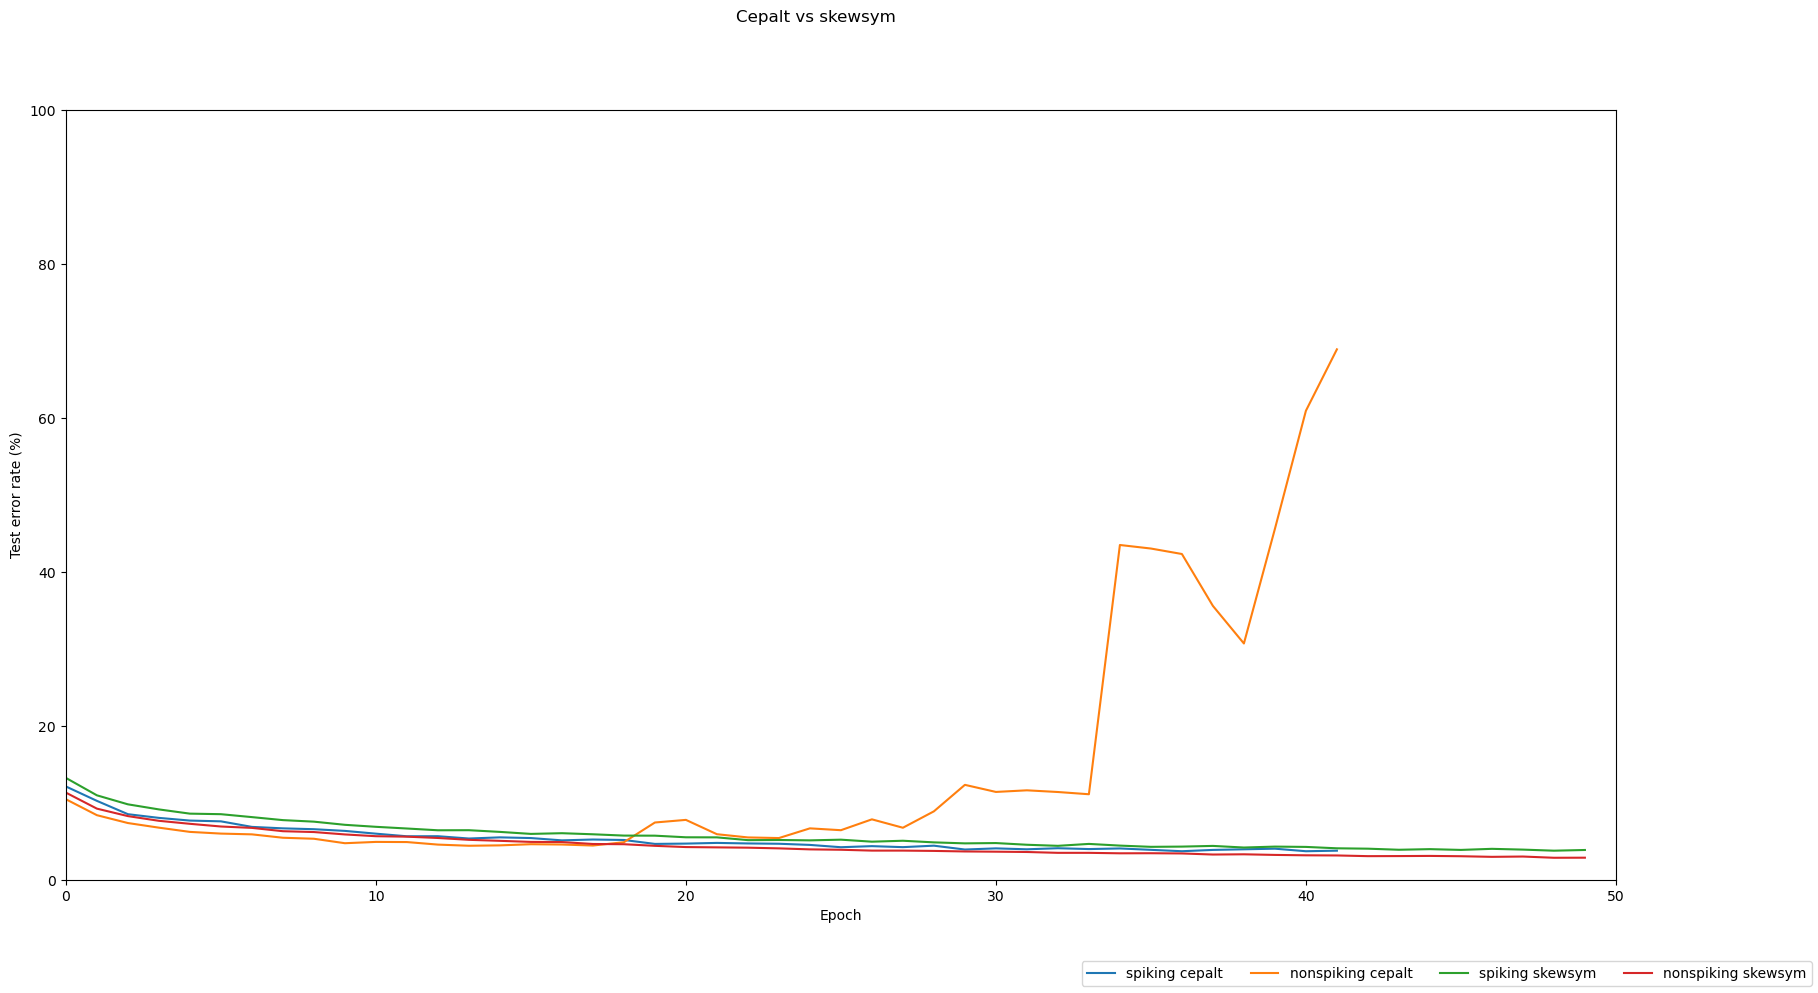
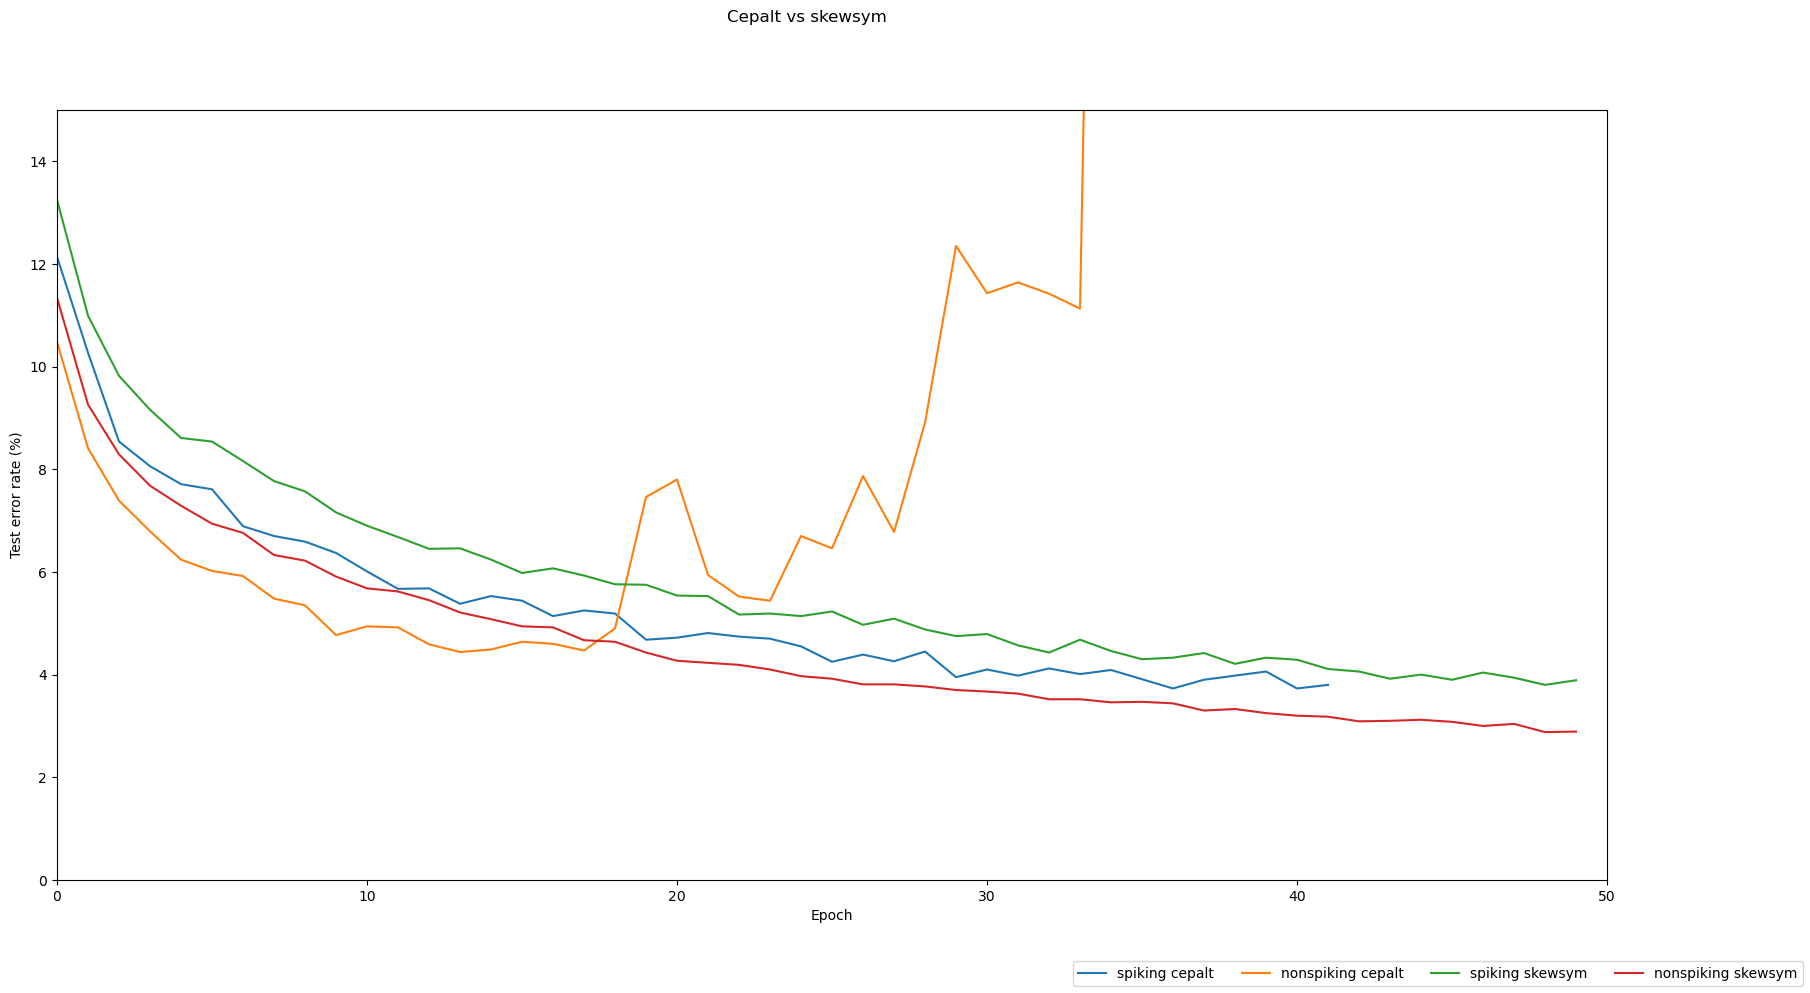
wip

diff --git a/graphUtil.py b/graphUtil.py
@@ -3,6 +3,17 @@ from matplotlib import pyplot as plt
 import csv
 import argparse
 
+"""
+'Solarize_Light2', '_classic_test_patch', '_mpl-gallery', '_mpl-gallery-nogrid',
+'bmh', 'classic', 'dark_background', 'fast', 'fivethirtyeight', 'ggplot', 'grayscale',
+'seaborn', 'seaborn-bright', 'seaborn-colorblind', 'seaborn-dark', 'seaborn-dark-palette',
+'seaborn-darkgrid', 'seaborn-deep', 'seaborn-muted', 'seaborn-notebook', 'seaborn-paper',
+'seaborn-pastel', 'seaborn-poster', 'seaborn-talk', 'seaborn-ticks', 'seaborn-white',
+'seaborn-whitegrid', 'tableau-colorblind10'
+"""
+
+# plt.style.use('ggplot')
+colormap = plt.cm.nipy_spectral
 parser = argparse.ArgumentParser(description='Graphing Utils')
 
 parser.add_argument(
@@ -34,14 +45,15 @@ def csv2array(directory,skiplines=0):
     return train_error, test_error
 
 # Plot various levels of discretization for nonspiking cepalt
-n_plots = 10
+n_plots = 12
 fig, ax = plt.subplots(figsize=(20,10))
-N1=[9*k for k in range(1,11)]
+color = iter(colormap(np.linspace(0,1,12)))
+N1=[9*k for k in range(1,n_plots+1)]
 labels=[r'N_1='+str(N1[i]) for i in range(n_plots)]
 disc_test_dir = ["cepalt_nonspiking_"+str(i) for i in range(n_plots)]
 error = [csv2array(disc_test_dir[i],skiplines=2) for i in range(n_plots)]
 for i in range(n_plots):
-    ax.plot(error[i][1])
+    ax.plot(error[i][1],c=next(color))
 ax.set_xlabel('Epoch')
 ax.set_ylabel('Test error rate (%)')
 ax.set_xlim([0,30])
@@ -54,7 +66,7 @@ fig.savefig('nonspiking_discretization.png',bbox_inches="tight")
 
 # Plot various levels of discretization for nonspiking cepalt
 fig, ax = plt.subplots(figsize=(20,10))
-# N1=[3*Kmax for Kmax in [3,6,9,12,15,18]]
+color = iter(colormap(np.linspace(0,1,12)))
 labels=[r'N_1='+str(N1[i]) for i in range(n_plots)]
 disc_test_dir = ["cepalt_spiking_"+str(i) for i in range(n_plots)]
 error = [csv2array(disc_test_dir[i],skiplines=2) for i in range(n_plots)]
@@ -65,16 +77,15 @@ ax.set_ylabel('Test error rate (%)')
 ax.set_xlim([0,30])
 ax.set_ylim([0,20])
 ax.grid(axis='y')
-# ax.set_title()
 fig.suptitle(r"Spiking Discretization schemes")
 fig.legend(labels, loc='lower right', ncol=len(labels), bbox_transform=fig.transFigure)
 fig.savefig('spiking_discretization.png',bbox_inches="tight")
 
 
-n_plots=9
+n_plots=12
 # Spiking vs nonspiking cepalt for various levels of discretization
 fig, ax = plt.subplots(n_plots//3,3,figsize=(20,20))
-# fig.tight_layout()
+color = iter(colormap(np.linspace(0,1,12)))
 labels=['spiking','nonspiking']
 N2 = [3*i for i in range(1,n_plots+1)]
 for i in range(n_plots):
@@ -98,6 +109,7 @@ fig.savefig('cepalt_error.png')#,bbox_inches="tight")
 # Cepalt vs skewsym
 
 fig, ax = plt.subplots(figsize=(20,10))
+color = iter(colormap(np.linspace(0,1,12)))
 labels=["spiking cepalt", "nonspiking cepalt", "spiking skewsym","nonspiking skewsym"]
 dirs = ["spiking_cepalt", "nonspiking_cepalt", "spiking_skewsym","nonspiking_skewsym"]
 error = [csv2array(dir,skiplines=2) for dir in dirs]
@@ -106,7 +118,7 @@ for i in range(4):
 ax.set_xlabel('Epoch')
 ax.set_ylabel('Test error rate (%)')
 ax.set_xlim([0,50])
-ax.set_ylim([0,100])
+ax.set_ylim([0,15])
 # ax.set_title()
 fig.suptitle(r"Cepalt vs skewsym")
 fig.legend(labels, loc='lower right', ncol=len(labels), bbox_transform=fig.transFigure)
@@ -176,6 +188,7 @@ fig.savefig('compare_all.png',bbox_inches="tight")
 
 
 fig, ax = plt.subplots(2,2,figsize=(20,10))
+color = iter(colormap(np.linspace(0,1,12)))
 labels=['spiking','nonspiking',r'stdp: \tau=2',r'stdp: \tau=1.44 ',r'stdp: \tau=1.0']
 batch_size=[200,100,20,40]
 for i in [0,1,2,3]:

diff --git a/main.py b/main.py
@@ -145,7 +145,7 @@ parser.add_argument(
     '--seed',
     nargs = '+',
     type=int,
-    default=[],
+    default=42,
     metavar='SEED',
     help='seed (default: None')
 parser.add_argument(
@@ -229,8 +229,8 @@ args = parser.parse_args()
 
 # New this should create consistency as we change the number of steps
 if args.step==None:
-#     # args.step=4.5/args.Kmax
-    args.step=12.8/args.Kmax
+    # args.step=12.8/args.Kmax
+    args.step=12./args.Kmax
 
 if args.dt==None:
     # args.dt = 1-(2**(-20/args.T))
@@ -247,9 +247,9 @@ if args.max_fr==None:
 if args.spike_height==None:
     args.spike_height = args.step*args.max_fr
 
-if not not args.seed:
-    torch.manual_seed(args.seed[0])
-
+# if not not args.seed:
+#     torch.manual_seed(args.seed[0])
+set_seed(args.seed)
 
 batch_size = args.batch_size
 batch_size_test = args.test_batch_size
